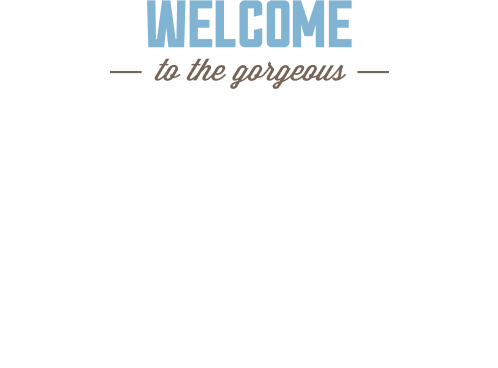
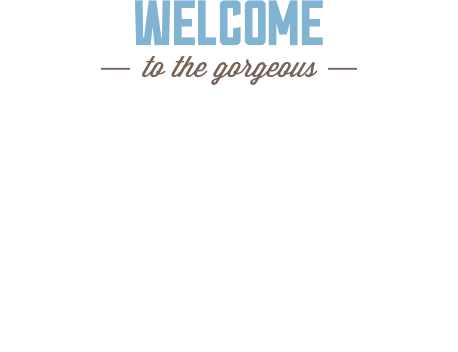
header + welcoming

diff --git a/css/style.css b/css/style.css
@@ -72,33 +72,27 @@ a {
 
 .navigation-list {
   margin: 0;
-  padding: 0;
+  padding: 15px 60px;
   list-style: none;
   display: flex;
+  flex-wrap: wrap;
+  justify-content: space-between;
 }
 
 .navigation-list-item {
-  width: 20%;
-  padding-top: 15px;
-  padding-bottom: 15px;
+  width: 15%;
+  padding: 0 12px;
 }
 
-.navigation-list-item:first-child {
-  padding-left: 72px;
-}
-
-.navigation-list-item:nth-child(2) {
+.navigation-list-item:nth-child(4n-2) {
   margin-right: 20%;
-  padding-left: 50px;
 }
 
-.navigation-list-item:nth-child(3) {
+.navigation-list-item:nth-child(4n-1) {
   text-align: right;
-  padding-right: 50px;
 }
 
-.navigation-list-item:last-child {
-  padding-right: 72px;
+.navigation-list-item:nth-child(4n) {
   text-align: right;
 }
 
@@ -118,16 +112,34 @@ a {
 
 .welcoming {
   text-align: center;
+  line-height: 26px;
+}
+
+.welcoming-bg {
   background-image: url(../img/main-background.jpg);
   background-position: top center;
   background-repeat: no-repeat;
-  line-height: 26px;
+  height: 509px;
+  width: 1200px;
+}
+
+.welcoming-phrase {
+  background-image: url(../img/welcoming.png), url(../img/welcoming-shape.svg);
+  background-position: 50% 50%, bottom center;
+  background-repeat: no-repeat;
+  height: 509px;
 }
 
 .welcoming-title {
   font-size: 21px;
   font-weight: 700;
-  margin-top: 0;
+  margin-top: 26px;
+  padding: 14px 360px;
+}
+
+.welcoming-text {
+  padding: 10px 340px;
+  margin-bottom: 42px;
 }
 
 .features-list {

diff --git a/index.html b/index.html
@@ -28,8 +28,11 @@
   <main>
 
     <section class="welcoming">
+      <div class="welcoming-bg">
+        <div class="welcoming-phrase"></div>
+      </div>
       <h3 class="welcoming-title">Седона — небольшой городок в Аризоне, заслуживающий большего!</h3>
-      <p>Рассмотрим 5 причин, по которым Седона круче, чем гранд каньон!</p>
+      <p class="welcoming-text">Рассмотрим 5 причин, по которым Седона круче, чем гранд каньон!</p>
     </section>
 
     <section>
